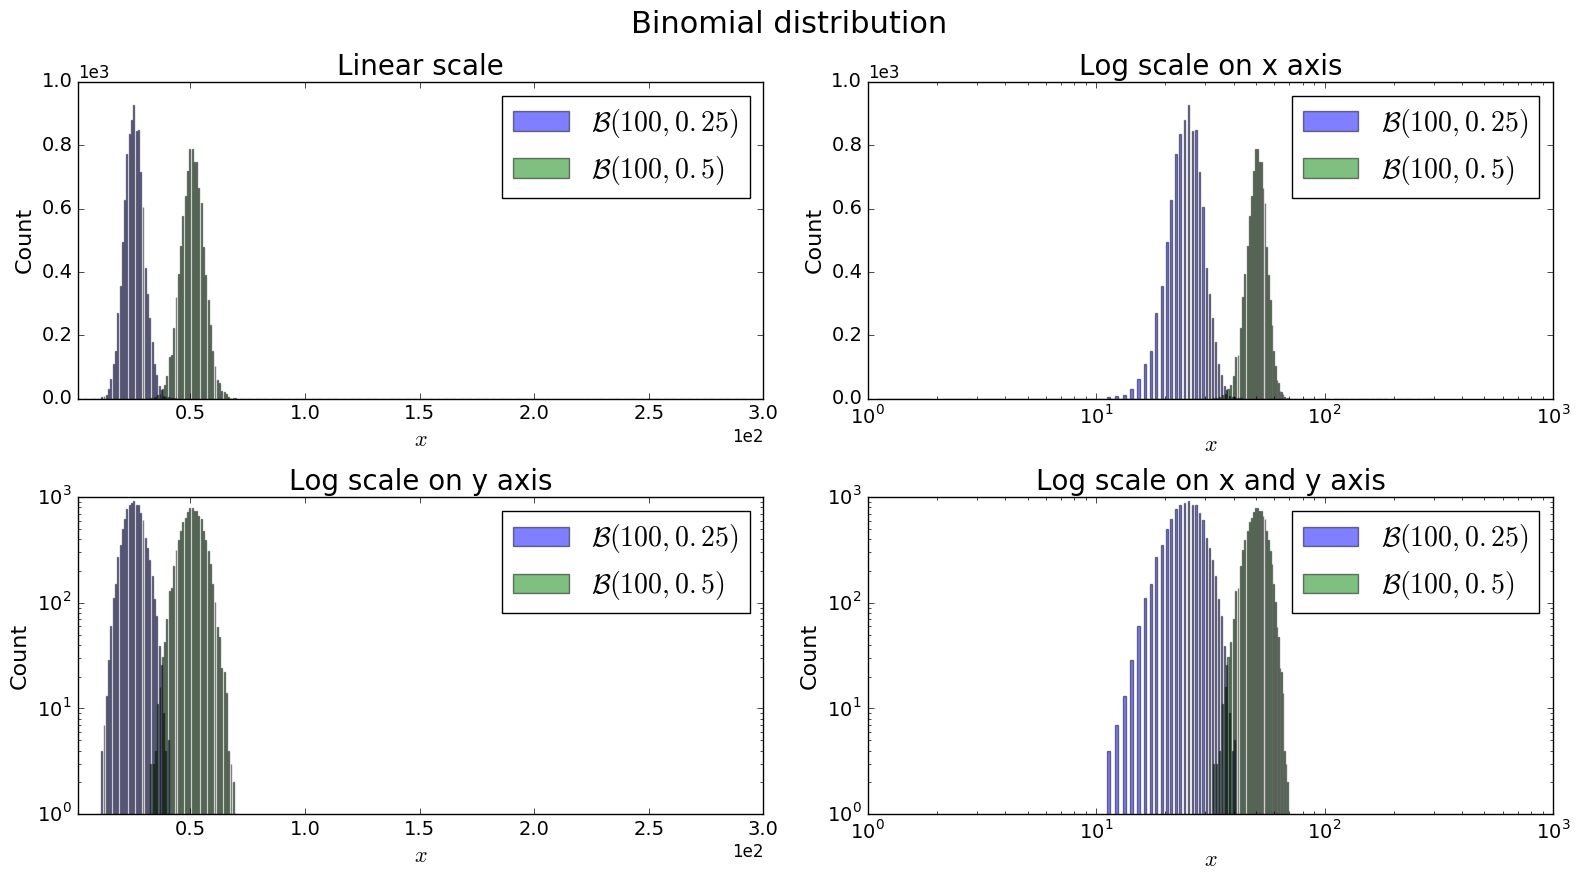
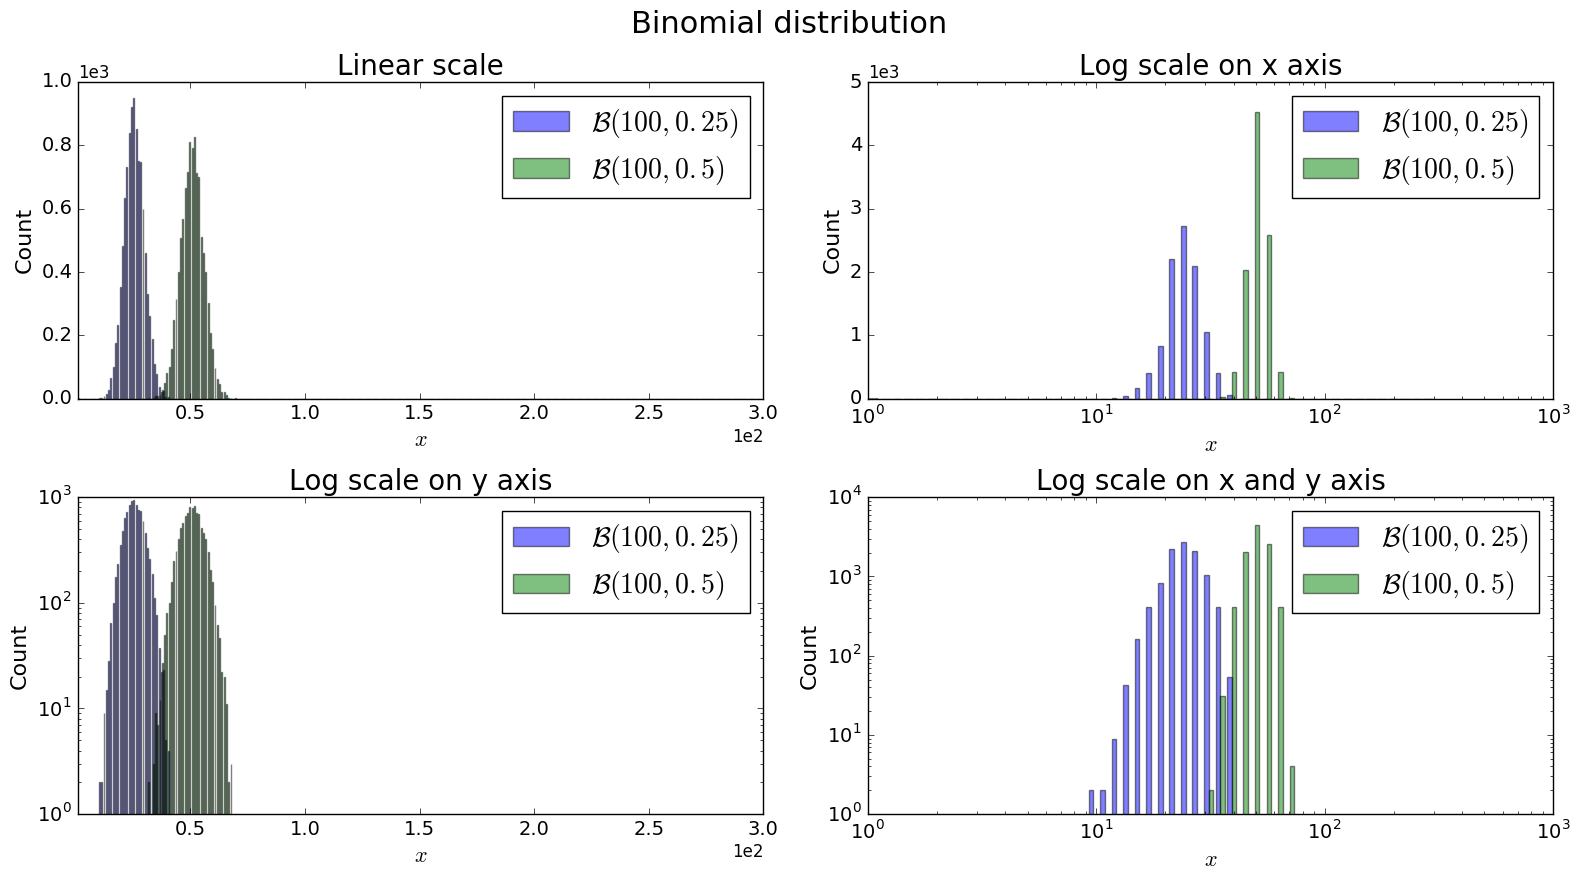
Update a snippet.

diff --git a/python/matplotlib/subplots_full_example.py b/python/matplotlib/subplots_full_example.py
@@ -6,9 +6,17 @@
 from matplotlib import pyplot as plt
 import numpy as np
 
-def plot(axis, data, bins, label_list, title, logx=False, logy=False):
+def plot(axis, data, bins_min, bins_max, label_list, title=None, logx=False, logy=False):
+    if logx:
+        # Setup the logarithmic scale on the X axis
+        vmin = np.log10(bins_min)
+        vmax = np.log10(bins_max)
+        bins = np.logspace(vmin, vmax, 50) # Make a range from 10**vmin to 10**vmax
+    else:
+        bins = range(bins_min, bins_max)
+
     axis.hist(data,
-              bins,
+              bins=bins,
               log=logy,
               histtype="bar",
               alpha=0.5,
@@ -19,7 +27,8 @@ def plot(axis, data, bins, label_list, title, logx=False, logy=False):
     axis.set_ylabel("Count", fontsize=16)
     axis.set_xlabel(r"$x$", fontsize=16)
 
-    axis.set_title(title, fontsize=20)
+    if title is not None:
+        axis.set_title(title, fontsize=20)
 
     plt.setp(axis.get_xticklabels(), fontsize=14)
     plt.setp(axis.get_yticklabels(), fontsize=14)
@@ -42,12 +51,11 @@ data = [np.random.binomial(n=100, p=0.25, size=10000),
         np.random.binomial(n=100, p=0.5,  size=10000)]
 label_list = [r"$\mathcal{B}(100, 0.25)$",
               r"$\mathcal{B}(100, 0.5)$"]
-bins = range(300)
 
-plot(ax1, data, bins=bins, label_list=label_list, title="Linear scale")
-plot(ax2, data, bins=bins, label_list=label_list, title="Log scale on x axis", logx=True)
-plot(ax3, data, bins=bins, label_list=label_list, title="Log scale on y axis", logy=True)
-plot(ax4, data, bins=bins, label_list=label_list, title="Log scale on x and y axis", logx=True, logy=True)
+plot(ax1, data, bins_min=1, bins_max=300, label_list=label_list, title="Linear scale")
+plot(ax2, data, bins_min=1, bins_max=300, label_list=label_list, title="Log scale on x axis", logx=True)
+plot(ax3, data, bins_min=1, bins_max=300, label_list=label_list, title="Log scale on y axis", logy=True)
+plot(ax4, data, bins_min=1, bins_max=300, label_list=label_list, title="Log scale on x and y axis", logx=True, logy=True)
 
 # General title #############
 
